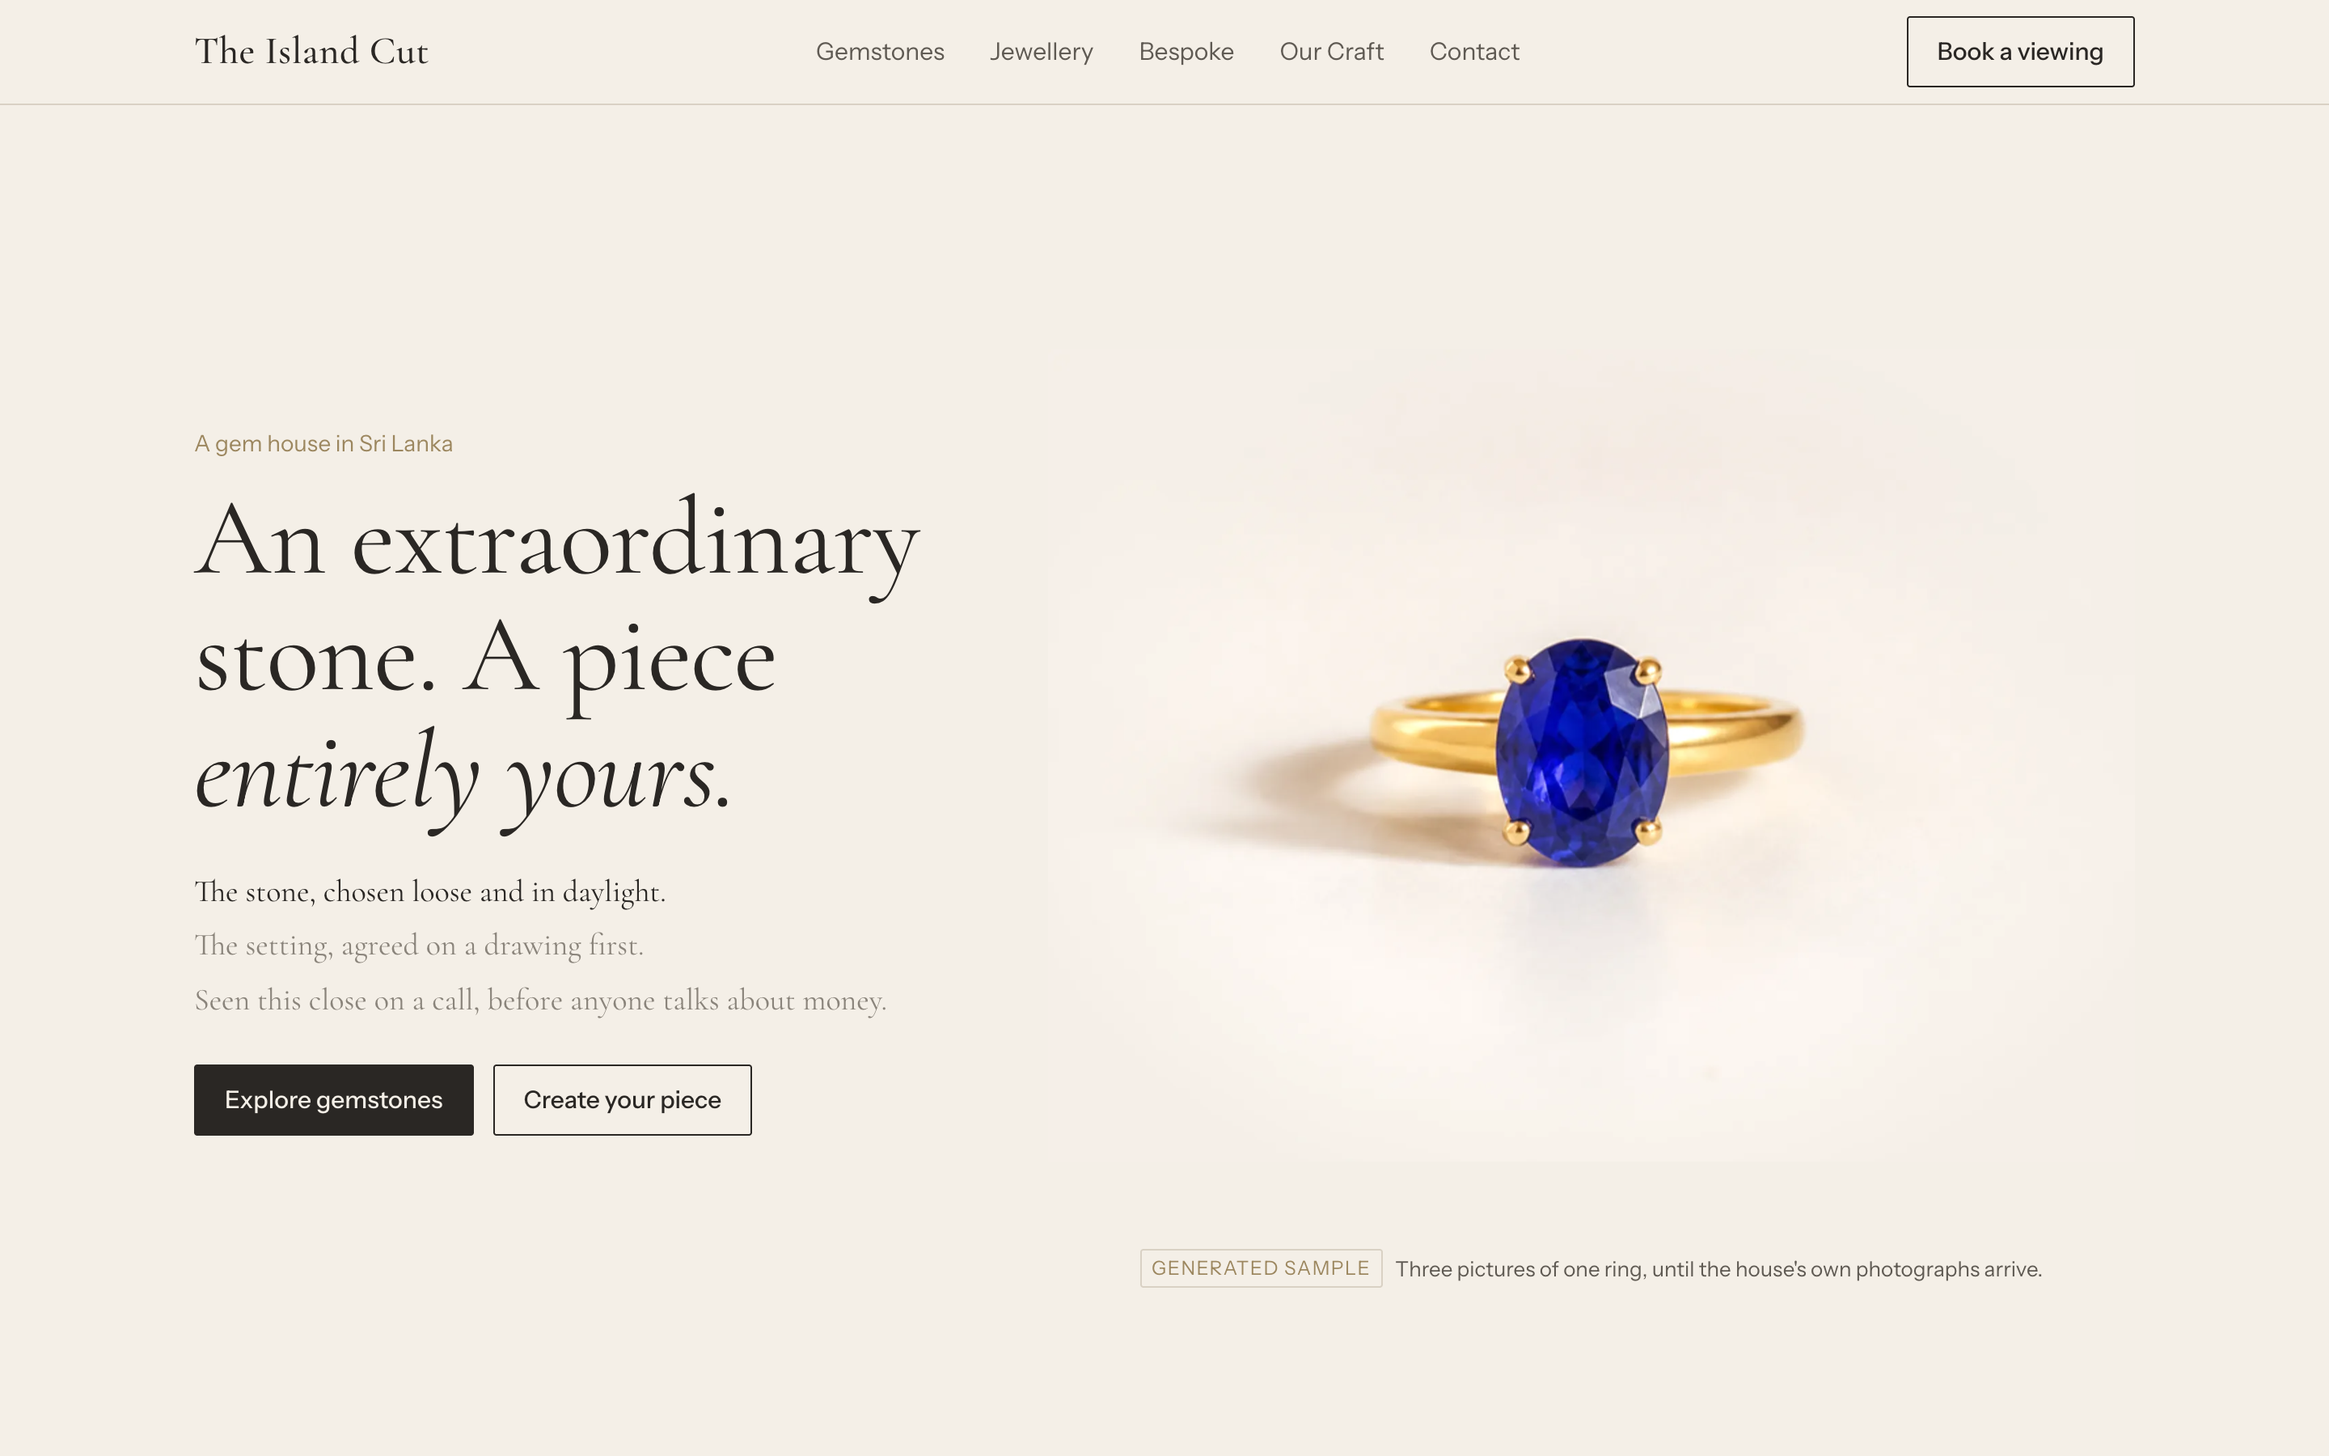
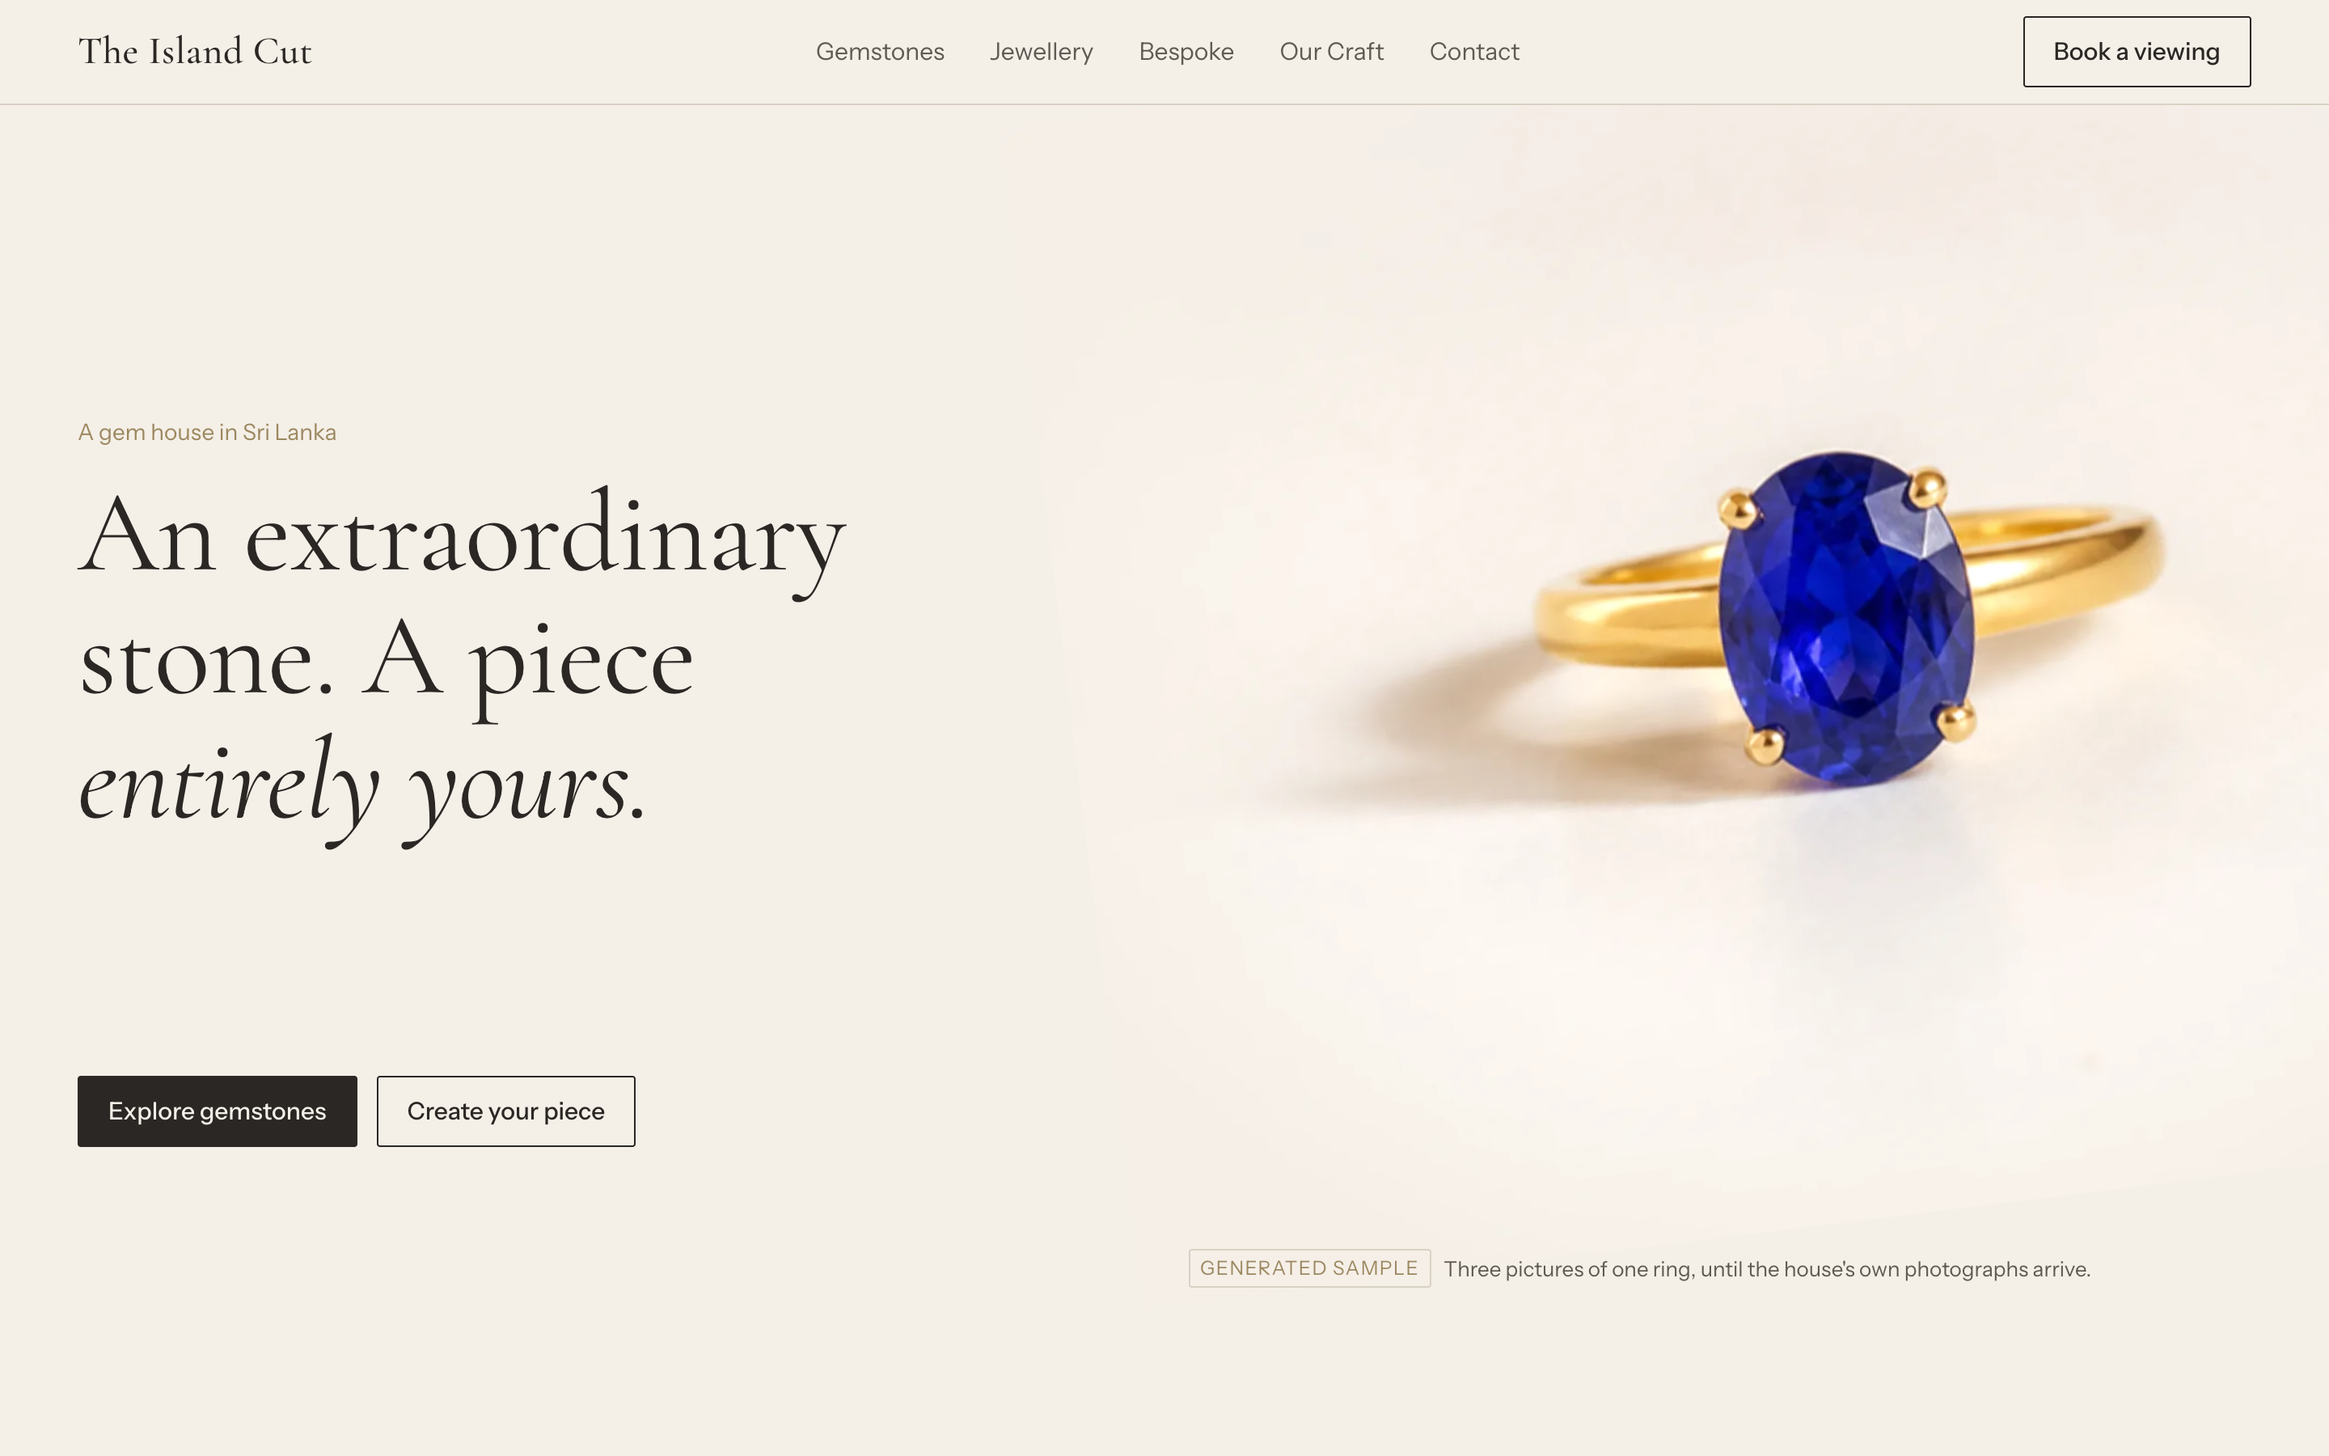
Hero reads the scroll: the ring arrives as you scroll and the whole screen moves; brand and headline at the desk's left edge, Book a viewing at the right
Thulaib rejected the load-time entrance a third time (1 Nov, "the effect needs to come when you scroll down,
the whole screen also needs to start moving, the words more to the left, book viewing more to the right").

- #hero-stage carries --p (progress over the track) and --a (arrival, eased over the first 28% of travel);
  .turn .box interpolates from the arrival pose (large, tilted, cut by the screen edge) to rest, and .turn and
  .hero .copy translate at different rates so the screen itself moves with the scroll
- nothing plays on load any more; reduced motion shows the upright still at rest with all three lines
- desk: --gutter 48px, nav spans the screen, brand and h1 at x=48, Book a viewing at the right gutter;
  sections below stay capped at 1280
- .hero bleeds to the screen edge with overflow:clip so the arriving ring is cut, never a sideways scroll
- check-site.mjs: hero check reads arrival pose at top, rest a third down, waiting again at the top, no sideways
  scroll, and "the whole screen moves" (copy rises 40px or more); the arriving box is exempt from the clipped-edge
  check by design; 95 checks
- shots.mjs also writes {phone,desk}-hero-arrived.png
- SOURCES.md reworded to the scroll-driven hero

diff --git a/src/styles/site.css b/src/styles/site.css
@@ -74,8 +74,10 @@ select,input[type=text]{width:100%;min-height:44px;padding:0 var(--s-3);border:1
 @media (prefers-reduced-motion:no-preference){
   .door,.chip,.seg button,.tab{transition:transform var(--press) var(--ease),background-color var(--select) var(--ease),color var(--select) var(--ease),border-color var(--select) var(--ease)}
   .door:active,.chip:active,.seg button:active,.tab:active{transform:scale(.985)}
-  .scene[data-entered="false"] .turn .box{transform:translate(-22%,-14%) rotate(-9deg) scale(1.45)}
-  .turn .box{transition:transform 1800ms cubic-bezier(.22,.8,.2,1)}
+  .turn .box{transform:translate(calc((1 - var(--a)) * var(--ex)),calc((1 - var(--a)) * var(--ey))) rotate(calc((1 - var(--a)) * var(--er))) scale(calc(1 + (1 - var(--a)) * var(--es)))}
+  .turn{transform:translateY(calc(var(--p) * -40px))}
+  .hero .copy{transform:translateY(calc(var(--p) * -72px))}
+  .turn .box,.turn,.hero .copy{transition:transform 120ms linear}
   .turn .still{transition:opacity 220ms var(--ease)}
   .words li{transition:opacity 420ms var(--ease)}
 }
@@ -89,22 +91,25 @@ select,input[type=text]{width:100%;min-height:44px;padding:0 var(--s-3);border:1
 .links a{min-height:44px;display:inline-flex;align-items:center;border-bottom:1px solid transparent}
 @media (hover:hover){.links a:hover{color:var(--ink)}}
 
-/* HERO (clip 5): one ring, three stills. The first ARRIVES: large and tilted from the top left, it settles in the
-   centre over 1.8 s, once, and only then does its line land. Each scroll stage then SWAPS the still (a 220 ms cut, no
-   morph) and its line, with a slow drift of scale inside the stage so the picture is never dead. The stage sticks
-   under the nav; the track gives it a CAPPED travel in px (a scroll driven element must cap its travel,
-   bb-web-learnings). dvh, never vh. Longhands on .hero: a padding shorthand here wiped .wrap's side gutter (seen
-   30 Oct 2026). The fade into the paper is BAKED into each still (SOURCES.md), no CSS mask, so the edge never shows as a lighter oval
-   (seen 1 Nov 2026). On the desk the ring arrives from the right, its own column, never over the headline. */
-.hero{--travel:720px;padding-top:0;padding-bottom:var(--s-10)}
+/* HERO (clip 5, scroll driven since 1 Nov 2026 pm): one ring, three stills. At the top of the page the ring WAITS in its
+   arrival pose, large and tilted, in from the corner, and its line is held back. The first 28% of the travel brings it to
+   rest (--a, eased in JS) and lands the line; scrolling back up puts it back. The copy and the ring rise at different rates
+   with the scroll (--p) so the whole screen moves, never a frozen stage. Each stage then SWAPS the still (a 220 ms cut,
+   no morph) and its line, with a slow drift of scale inside the stage. The stage sticks under the nav; the track gives it
+   a CAPPED travel in px (bb-web-learnings). dvh, never vh. The hero is NOT a .wrap: it bleeds to the screen edge with its
+   own gutter and overflow:clip (not hidden, which would break the sticky scene), so the arriving ring is cut by the
+   screen, never by a frame 48px inside it. The fade into the paper is BAKED into each still (SOURCES.md), no CSS mask.
+   On the desk the ring arrives from the right, its own column, never over the headline (Thulaib, 1 Nov 2026: brand and
+   headline at the left edge, the viewing door at the right edge, the effect on the scroll). */
+.hero{--travel:720px;--ex:-22%;--ey:-14%;--er:-9deg;--es:.45;padding:0 var(--gutter) var(--s-10);overflow:clip}
 .hero .track{height:calc(100dvh - var(--nav-h) - env(safe-area-inset-top) + var(--travel))}
-.hero .scene{position:sticky;top:calc(var(--nav-h) + env(safe-area-inset-top));height:calc(100dvh - var(--nav-h) - env(safe-area-inset-top));display:flex;flex-direction:column;justify-content:center;gap:var(--s-4);padding-top:var(--s-4);padding-bottom:var(--s-4)}
+.hero .scene{--p:0;--a:0;position:sticky;top:calc(var(--nav-h) + env(safe-area-inset-top));height:calc(100dvh - var(--nav-h) - env(safe-area-inset-top));display:flex;flex-direction:column;justify-content:center;gap:var(--s-4);padding-top:var(--s-4);padding-bottom:var(--s-4)}
 .turn{margin:0;display:grid;justify-items:center;gap:var(--s-2)}
 .turn .box{height:min(38dvh,420px);width:100%;display:grid;place-items:center}
 .turn .still{grid-area:1/1;height:100%;width:auto;max-width:100%;object-fit:contain;opacity:0;transform:scale(var(--drift,1));transform-origin:50% 55%}
 .turn .still[aria-current="true"]{opacity:1}
 .scene[data-entered="false"] .words li{opacity:0}
-.turn figcaption{font-size:var(--t-sm);color:var(--ink-2);display:flex;align-items:center;justify-content:center;gap:var(--s-2);flex-wrap:wrap;text-align:center}
+.turn figcaption{position:relative;z-index:1;font-size:var(--t-sm);color:var(--ink-2);display:flex;align-items:center;justify-content:center;gap:var(--s-2);flex-wrap:wrap;text-align:center}
 .frame{position:relative;background:var(--white);overflow:clip}
 /* the frame is a padding spacer, not aspect-ratio, and clips with overflow:clip, not hidden: as a grid item with overflow:hidden Chromium gave it a 0px height and painted the frame over the facts below (seen 30 Oct 2026 in the passport; overflow:clip is not a scroll container, so the row sizes to the spacer) */
 .frame::before{content:'';display:block;padding-top:66.667%}
@@ -299,15 +304,17 @@ dialog .acts{padding:var(--s-4) var(--gutter) calc(var(--s-4) + env(safe-area-in
 
 /* DESK */
 @media (min-width:900px){
-  :root{--gutter:40px}
+  :root{--gutter:48px}
+  .nav .in{max-width:none}
   .links{display:flex}
   .hero{--travel:900px;padding-bottom:var(--s-16)}
-  .hero .scene{display:grid;grid-template-columns:5fr 7fr;gap:var(--s-12);align-items:center;padding-top:0;padding-bottom:0}
+  .hero{--ex:18%;--ey:-14%;--er:-7deg;--es:.3}
+  .hero .scene{display:grid;grid-template-columns:minmax(0,5fr) minmax(0,7fr);gap:var(--s-12);align-items:center;padding-top:0;padding-bottom:0}
   .turn{order:2}
   .turn .box{height:min(66dvh,680px)}
-  @media (prefers-reduced-motion:no-preference){.scene[data-entered="false"] .turn .box{transform:translate(16%,-12%) rotate(-7deg) scale(1.3)}}
+  @media (prefers-reduced-motion:no-preference){.turn{transform:translateY(calc(var(--p) * -56px))}.hero .copy{transform:translateY(calc(var(--p) * -112px))}}
   .hero .copy{order:1;text-align:left}
-  .hero .copy h1{margin-left:0;margin-right:0}
+  .hero .copy h1{margin-left:0;margin-right:0;font-size:clamp(44px,5vw,76px)}
   .hero .doors .door{flex:0 0 auto;padding:0 18px}
   .words{gap:var(--s-2);margin:var(--s-6) 0 var(--s-7)}
   .words li{grid-area:auto;opacity:1;color:var(--ink-3)}

diff --git a/src/scripts/site.js b/src/scripts/site.js
@@ -39,30 +39,29 @@ function progress(track, stage) {
 }
 function onScroll(fn) { let q = false; const ask = () => { if (!q) { q = true; requestAnimationFrame(() => { q = false; fn(); }); } }; addEventListener('scroll', ask, { passive: true }); addEventListener('resize', ask); return ask; }
 
-/* ───────── the hero (clip 5): one ring, three stills. The first arrives on its own (a CSS transition, started once the
-   still has loaded, so it is never seen half way) and only then do the words land. The scroll then picks the stage:
-   a different still, a different line, a slow drift of scale inside the stage. Read from the scroll and nothing else,
-   so scrolling up swaps back. Under reduced motion: no entrance, the upright still, every line shown. ───────── */
+/* ───────── the hero (clip 5, scroll driven): one ring, three stills. At the top the first still waits in its arrival pose
+   (--a is 0) with its line held back; the first 28% of the travel eases it to rest (--a reaches 1, the line lands) and
+   scrolling back up puts it back. --p drives the slow rise of the copy and the ring, so the whole screen moves. The scroll
+   then picks the stage: a different still, a different line, a slow drift of scale inside the stage. Read from the scroll
+   and nothing else (no timer, no frame to wait on, so a hidden tab cannot strand it). Under reduced motion: at rest, the
+   upright still, every line shown. ───────── */
 {
   const track = $('#hero-track'), stage = $('#hero-stage'), turn = $('#turn'), stills = $$('#turn .still'), words = $$('#hero-words li');
-  const N = stills.length, at = words.map(w => Number(w.dataset.at));
-  const H = window.IslandCut.hero = { stages: N, loaded: 0, stage: 0, progress: 0, entered: false, reduced: REDUCE };
+  const N = stills.length, at = words.map(w => Number(w.dataset.at)), ARRIVE = 0.28;
+  const H = window.IslandCut.hero = { stages: N, loaded: 0, stage: 0, progress: 0, arrival: 0, entered: false, reduced: REDUCE };
   const cur = (list, i) => list.forEach((el, k) => { if (k === i) el.setAttribute('aria-current', 'true'); else el.removeAttribute('aria-current'); });
   function show(i) { cur(stills, i); cur(words, i); H.stage = i; turn.dataset.stage = String(i); }
   function put() {
-    const p = progress(track, stage); H.progress = p;
-    let i = 0; at.forEach((a, k) => { if (p >= a) i = k; });
+    const p = REDUCE ? 0.5 : progress(track, stage); H.progress = p;
+    const u = REDUCE ? 1 : clamp(p / ARRIVE, 0, 1), a = 1 - Math.pow(1 - u, 3); H.arrival = a;
+    stage.style.setProperty('--p', p.toFixed(3)); stage.style.setProperty('--a', a.toFixed(3));
+    H.entered = a >= 1; stage.dataset.entered = String(H.entered);
+    let i = 0; at.forEach((v, k) => { if (p >= v) i = k; });
     const span = (k => (k < N ? at[k] : 1) - at[i])(i + 1), local = span > 0 ? clamp((p - at[i]) / span, 0, 1) : 0;
     show(i); turn.style.setProperty('--drift', (1 + (i === N - 1 ? 0.10 : 0.05) * local).toFixed(3));
   }
-  function enter() { if (H.entered) return; H.entered = true; stage.dataset.entered = 'true'; }
   stills.forEach(im => { const done = () => { H.loaded++; }; if (im.complete && im.naturalWidth) done(); else im.addEventListener('load', done, { once: true }); });
-  if (REDUCE) { show(1); H.progress = 0.5; enter(); }
-  else {
-    onScroll(put); put();
-    const go = () => { requestAnimationFrame(() => requestAnimationFrame(enter)); setTimeout(enter, 900); }; /* a hidden tab stalls animation frames (seen 1 Nov 2026): the timer makes sure the ring never stays stuck in its entrance pose */
-    if (stills[0].complete) go(); else { stills[0].addEventListener('load', go, { once: true }); stills[0].addEventListener('error', go, { once: true }); }
-  }
+  if (REDUCE) put(); else { onScroll(put); put(); }
 }
 
 /* ───────── customise: the ring comes apart as the stage scrolls and goes back together on the way up ───────── */

diff --git a/public/assets/SOURCES.md b/public/assets/SOURCES.md
@@ -18,7 +18,7 @@ in `src/data/stones.json` (`photo.credit`) and labelled "Sample data" on the car
 | Source | Three pictures generated in Canva (Business Booster's own account) on 31 Oct 2026 from written prompts, no reference image: one ring, an oval deep royal blue sapphire in a four prong yellow gold solitaire on a pale porcelain ground |
 | Files | `lying` (the ring at a slight tilt), `upright` (standing, facing the camera), `macro` (the stone very close). Each at 480, 800, 1200 and 1600 px wide, WebP. The 1456 by 1088 originals are in `~/Downloads/THE-ISLAND-CUT/HERO-AI/` |
 | Made | Exported from Canva at full size, each faded at its edges into the site's paper (#f4efe7) by a radial blend baked into the file, so the picture melts into the page without a mask in the CSS, then resized. Nothing was drawn or retouched by hand |
-| On the page | The hero (clip 5): the first still arrives large and tilted and settles in the centre, then each scroll stage swaps to the next still with its line. Labelled "Generated sample". The real site shows the house's own ring photographed three ways on a white sweep, the same mechanism, no generation |
+| On the page | The hero (clip 5, read from the scroll): at the top the first still sits large and tilted at the screen's edge; as the visitor scrolls it settles into place and the whole screen moves with it, then each further stage swaps to the next still with its line. Labelled "Generated sample". The real site shows the house's own ring photographed three ways on a white sweep, the same mechanism, no generation |
 | The rule | Generated pictures are a stand in for this demo only, approved for it by Thulaib on 31 Oct 2026. They never stand for a real stone on a record, never go on a client's domain, and are replaced by the house's own photographs before launch |
 
 ## Exploded ring layers (`motion/layers/`)
